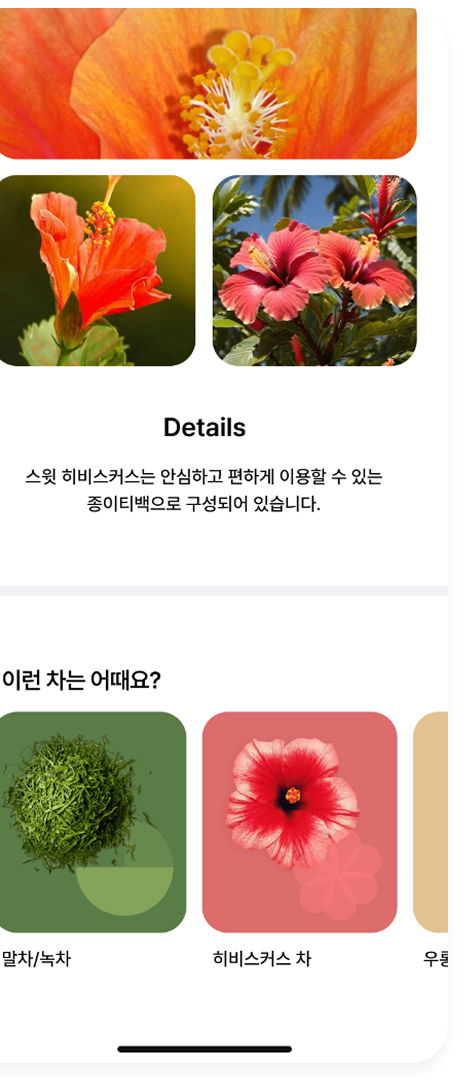
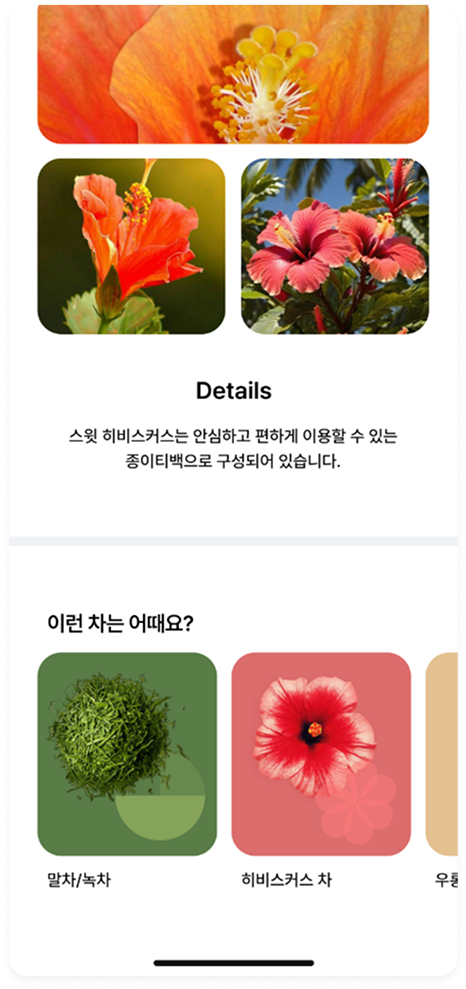
0331

diff --git a/app.html b/app.html
@@ -96,14 +96,12 @@
       <div class="w1200">
         <!--<img class="logo" src="images/logo.png" alt="LOGO">-->
         <div class="w1024_logo">
-          <a href="#"><img src="images/logo.png" alt="LOGO" /></a>
+          <a href="index.html"><img src="images/logo.png" alt="LOGO" /></a>
         </div>
         <div class="menu_wrap">
           <ul id="gnb">
             <li class="megaLi">
-              <img src="images/icon_gnbMenu.png" alt="기획전" /><a href="#"
-                >기획전</a
-              >
+              <img src="images/icon_gnbMenu.png" alt="기획전" /><a href="#">기획전</a>
             </li>
             <li><a href="#">커피</a></li>
             <li><a href="#">티백차</a></li>

diff --git a/css/style.css b/css/style.css
@@ -1025,12 +1025,14 @@ footer {
   box-shadow:0 4px 8px rgba(0,0,0,0.04);
 }
 .app_img_container {
-  margin-top:9%;
+  /*margin-top:9%;*/
   width:100%;
   height:auto;
   display:flex;
   justify-content: space-between;
   position:relative;
+  /*background-color:#f9f9f9;*/
+  padding-top:6%;
 }
 /* .app_img_container::after {
   content:"";
@@ -1050,6 +1052,11 @@ footer {
 .app_img_container > div > img {
   width:100%;
   object-fit: cover;
+  cursor:pointer;
+  transition: .3s;
+}
+.app_img_container > div > img:hover {
+  transform:scale(1.1);
 }
 .white_color {
   display:block;

diff --git a/index.html b/index.html
@@ -96,7 +96,7 @@
         <div class="w1200">
           <!--<img class="logo" src="images/logo.png" alt="LOGO">-->
           <div class="w1024_logo">
-            <a href="#"><img src="images/logo.png" alt="LOGO" /></a>
+            <a href="index.html"><img src="images/logo.png" alt="LOGO"></a>
           </div>
           <div class="menu_wrap">
             <ul id="gnb">
